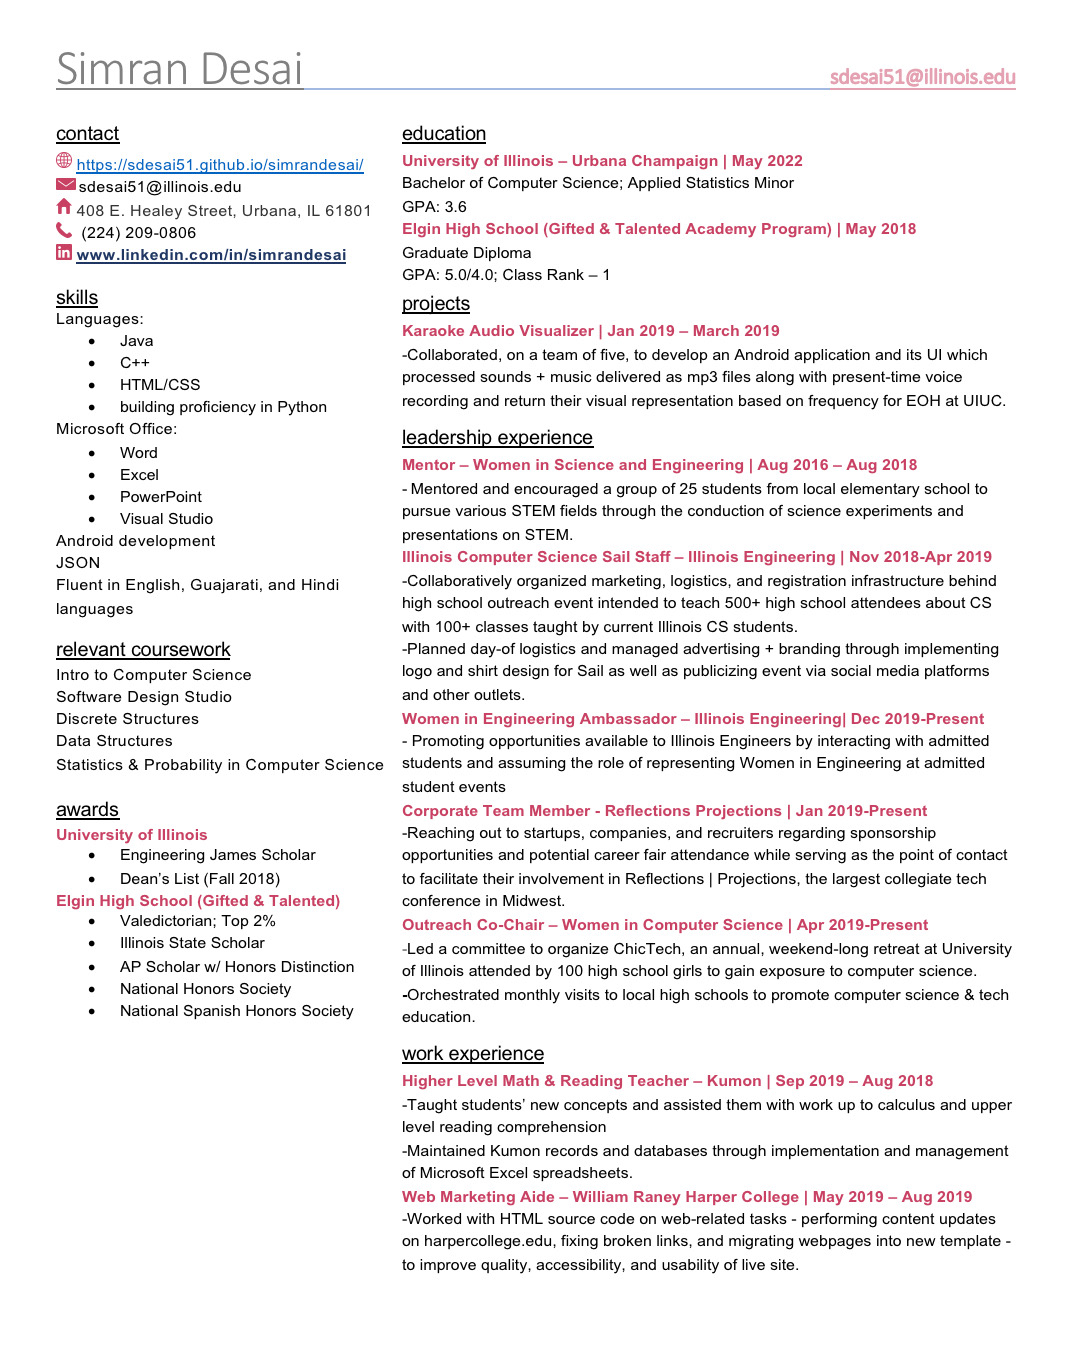
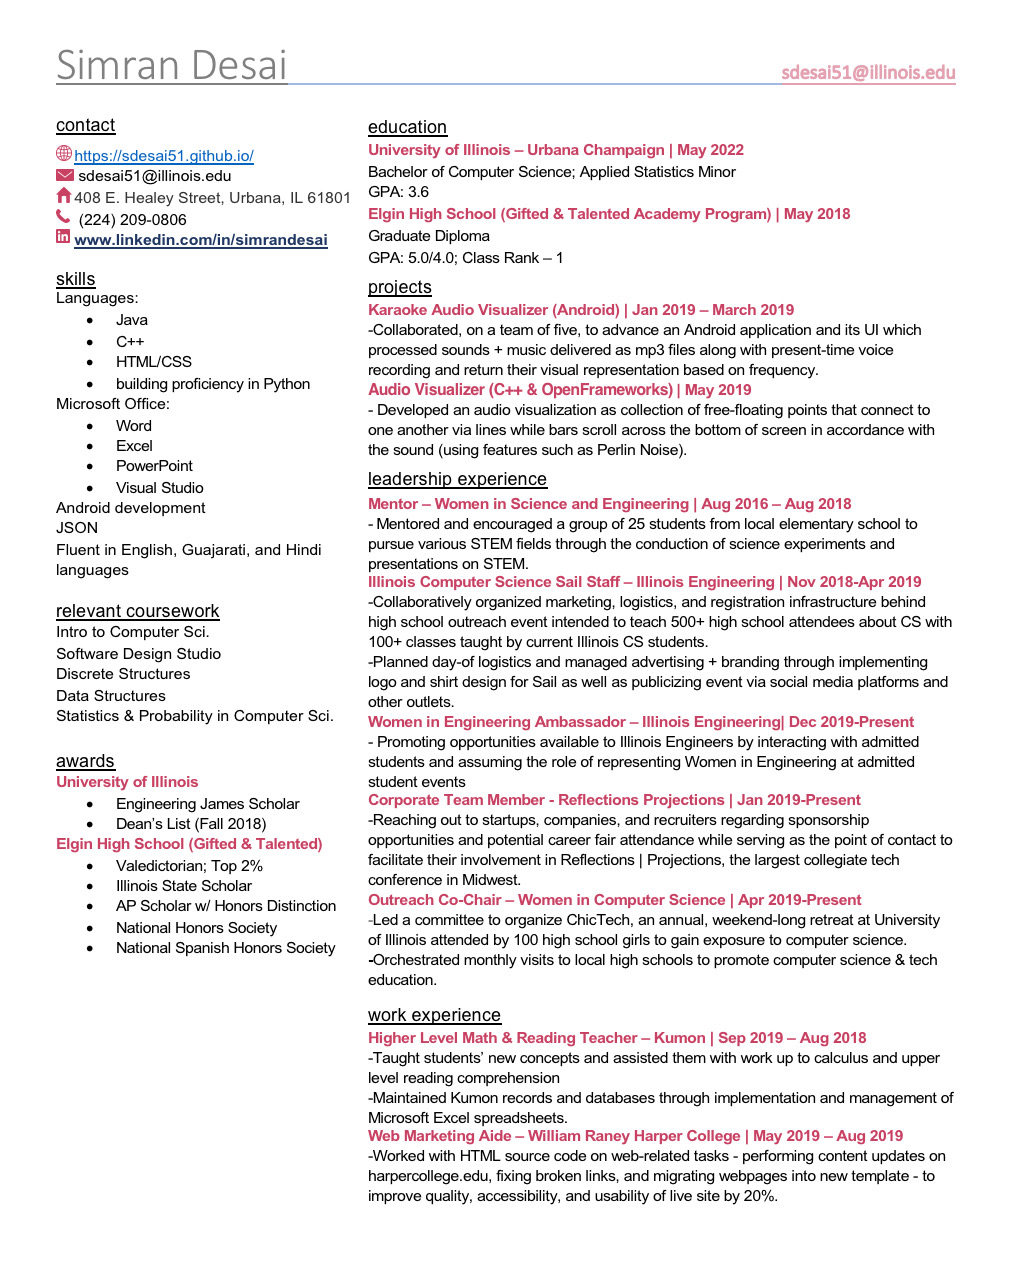
updated projects and resume

Changed region(s): [[0.0306, 0.0309, 0.9477, 0.958]]

diff --git a/projects.html b/projects.html
@@ -28,13 +28,26 @@
 				  	</div>
 					<div class="project-text">
 						<div class="project-title"><a href="https://github.com/sdesai51/audiovisualizer">Audio Visualizer (C++ & OpenFrameworks)</a></div>
-					 	<div class="project-authors"><u>Simran Desai</div>
+					 	<div class="project-authors"><u>Simran Desai</u></div>
 						<div class="project-description">This application is an Audio Visualizer. The visualization is a collection of free-floating points
 						that connect to one another via lines once encountering a certain distance from each other while bars scroll across the bottom of the screen.
 						The speed and size of the points, the thickness of the lines that connect the points, and the rise and fall of the bars
 						are in accordance with the sound (using features such as Perlin Noise).</div>
 					</div>
 			 </div>
+			 <div class="project-entry">
+					<div class="project-image">
+						<img src="assets/karaokevisualizer.png" alt="karaokevisualizer preview image"/>
+				  	</div>
+					<div class="project-text">
+						<div class="project-title"><a href="https://github.com/AlyxJM/EOH_2019">Karaoke</a></div>
+					 	<div class="project-authors">Alyx Merritt, <u>Simran Desai</u>, Kimi Hirano, Michelle Cheng, Mihika Aggarwal </div>
+						<div class="project-description">Karaoke is an Android application which converts audio files to a colored visual representation
+						and overlays the original track with user input in a different color. This application contains a song menu presenting
+						multiple songs for variability and utilizes a lyrics web api to fetch the corresponding songs' lyrics displayed on a multi-page 
+						scrollable user interface. </div>
+					</div>
+			  </div>
 		</div>
 	</main>
 </body>

diff --git a/index.html b/index.html
@@ -68,6 +68,19 @@
 						are in accordance with the sound (using features such as Perlin Noise).</div>
 					</div>
 			  </div>
+			  <div class="project-entry">
+					<div class="project-image">
+						<img src="assets/karaokevisualizer.png" alt="karaokevisualizer preview image"/>
+				  	</div>
+					<div class="project-text">
+						<div class="project-title"><a href="https://github.com/AlyxJM/EOH_2019">Karaoke</a></div>
+					 	<div class="project-authors">Alyx Merritt, <u>Simran Desai</u>, Kimi Hirano, Michelle Cheng, Mihika Aggarwal </div>
+						<div class="project-description">Karaoke is an Android application which converts audio files to a colored visual representation
+						and overlays the original track with user input in a different color. This application contains a song menu presenting
+						multiple songs for variability and utilizes a lyrics web api to fetch the corresponding songs' lyrics displayed on a multi-page 
+						scrollable user interface. </div>
+					</div>
+			  </div>
 			<a href="projects.html" class="view-more">View All Projects →</a>
 			</div>
 		</div>
